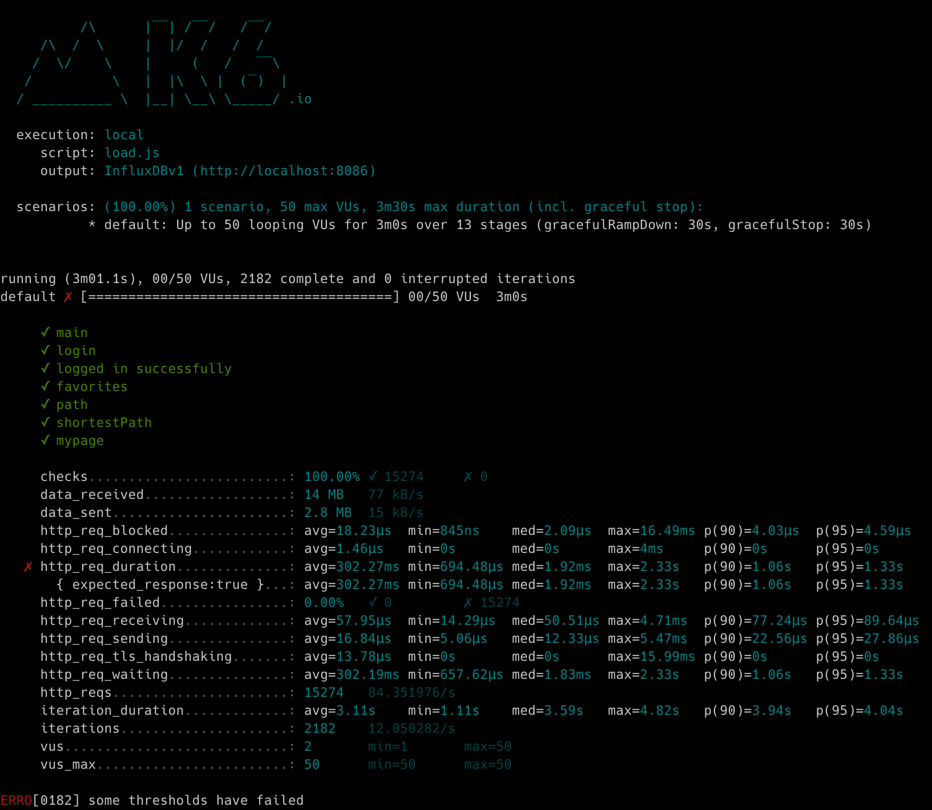
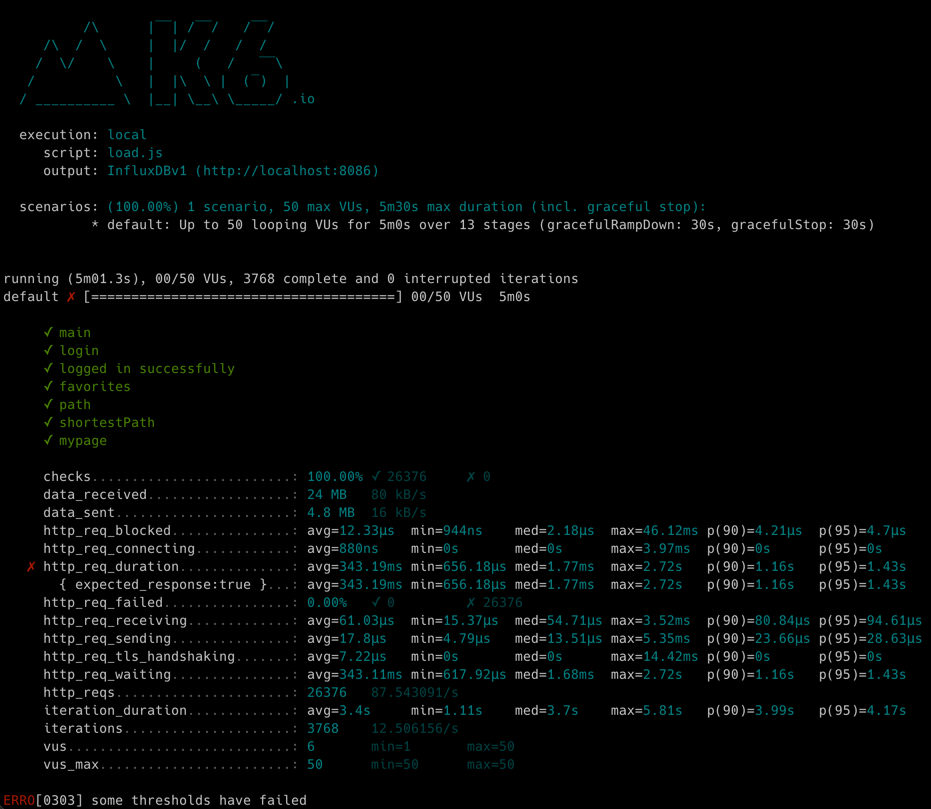
refactor: load 테스트 수정

diff --git a/k6/load.js b/k6/load.js
@@ -8,9 +8,9 @@ export let options = {
 		{duration: '10s', target: 20},
 		{duration: '20s', target: 35},
 		{duration: '20s', target: 50},
-		{duration: '20s', target: 50},
-		{duration: '20s', target: 50},
-		{duration: '20s', target: 50},
+		{duration: '60s', target: 50},
+		{duration: '60s', target: 50},
+		{duration: '60s', target: 50},
 		{duration: '20s', target: 50},
 		{duration: '10s', target: 40},
 		{duration: '10s', target: 30},

diff --git a/README.md b/README.md
@@ -19,24 +19,31 @@
 ## 🚀 Getting Started
 
 ### Install
+
 #### npm 설치
+
 ```
 cd frontend
 npm install
 ```
+
 > `frontend` 디렉토리에서 수행해야 합니다.
 
 ### Usage
+
 #### webpack server 구동
+
 ```
 npm run dev
 ```
+
 #### application 구동
+
 ```
 ./gradlew clean build
 ```
-<br>
 
+<br>
 
 ### 1단계 - 웹 성능 테스트
 
@@ -52,6 +59,7 @@ npm run dev
 | CLS | 0.004 | 표시 영역 안에 보이는 요소의 이동을 측정    |
 
 #### 경쟁사 1(네이버 지도 - https://map.naver.com/) 데스크톱
+
 | 지표  | 수치 | 설명  |
 |-----|---|-----|
 | FCP | 0.8s |     |
@@ -62,6 +70,7 @@ npm run dev
 | CLS | 0 |     |
 
 #### 경쟁사 2(카카오맵 - https://map.kakao.com/) 데스크톱
+
 | 지표  | 수치    | 설명  |
 |-----|-------|-----|
 | FCP | 0.6s  |     |
@@ -71,59 +80,62 @@ npm run dev
 | LCP | 0.6s  |     |
 | CLS | 0.018 |     |
 
-
 1. 웹 성능예산은 어느정도가 적당하다고 생각하시나요
+
 - 지하철 정보 컨텐츠를 제공하는 서비스다 보니, 컨텐츠를 빠르게 노출하고(FCP) 바로 사용할 수 있도록(TTI) 하는 지표가 경쟁사 보다 강화되어야 사용률을 높일 수 있을 것으로 보입니다.
-     - FCP 1s 이내
-     - TTI 2s 이내
+    - FCP 1s 이내
+    - TTI 2s 이내
 
 2. 웹 성능예산을 바탕으로 현재 지하철 노선도 서비스는 어떤 부분을 개선하면 좋을까요
-- 텍스트 기반 리소스를 압축(gzip, deflate, brotli)하여 제공. 네트워크 전송비용을 절감하여 전체적인 TTI, FCP를 개선할 수 있다.  
-  - /js/vendors.js : 2,125.0 KiB (예상 절감 효과 - 1,716.5 KiB)
-  - /js/main.js(chj1768.p-e.kr) : 172.0 KiB (예상 절감 효과 - 143.6 KiB)
-- 메인 페이지에서 사용하지 않는 스크립트나 리소스 Lazy loading 처리 
+
+- 텍스트 기반 리소스를 압축(gzip, deflate, brotli)하여 제공. 네트워크 전송비용을 절감하여 전체적인 TTI, FCP를 개선할 수 있다.
+    - /js/vendors.js : 2,125.0 KiB (예상 절감 효과 - 1,716.5 KiB)
+    - /js/main.js(chj1768.p-e.kr) : 172.0 KiB (예상 절감 효과 - 143.6 KiB)
+- 메인 페이지에서 사용하지 않는 스크립트나 리소스 Lazy loading 처리
 
 ---
 
-### 2단계 - 부하 테스트 
+### 2단계 - 부하 테스트
+
 1. 부하테스트 전제조건은 어느정도로 설정하셨나요
 
 - 대상 시스템 범위: `사설 dns -> aws vpc -> ec2 webServer(nginx) -> ec2 was(embedded tomcat) -> ec2 db(docker)`
-  - db 리소스 상태
-  ![db.png](db.png)
-  
+    - db 리소스 상태
+      ![db.png](db.png)
+
 - 목푯값 설정 (latency, throughput, 부하 유지기간)
-    > Throughput : 1일 평균 rps ~ 1일 최대 rps <br/>
-    언론 보도된 경쟁사 앱 DAU: 100~130만 <br/>
-    1일 사용자 수(DAU) x 1명당 1일 평균 접속 수(5회로 가정) = 6500000 <br/> 
-    1일 총 접속 수 / 86,400 (초/일) = 평균 RPS 75 <br/>
-    1일 평균 rps x (최대 트래픽 / 평소 트래픽) = 최대 RPS 112
-   
-    > T = (R * http_req_duration) (+ 1s) <br/>
-    (4 * 0.2) + 1 = 1.8 <br/>
-    VUser = 33 ~ 50
+  > Throughput : 1일 평균 rps ~ 1일 최대 rps <br/>
+  언론 보도된 경쟁사 앱 DAU: 100~130만 <br/>
+  1일 사용자 수(DAU) x 1명당 1일 평균 접속 수(5회로 가정) = 6500000 <br/>
+  1일 총 접속 수 / 86,400 (초/일) = 평균 RPS 75 <br/>
+  1일 평균 rps x (최대 트래픽 / 평소 트래픽) = 최대 RPS 112
+
+  > T = (R * http_req_duration) (+ 1s) <br/>
+  (4 * 0.2) + 1 = 1.8 <br/>
+  VUser = 33 ~ 50
 
 - 부하 테스트 시 저장될 데이터 건수 및 크기
-  - 새로 저장될 데이터는 없다. 이미 저장된 데이터(DB)에 대한 서비스 조회 성능을 확인해 본다.
+    - 새로 저장될 데이터는 없다. 이미 저장된 데이터(DB)에 대한 서비스 조회 성능을 확인해 본다.
 
 
 2. Smoke, Load, Stress 테스트 스크립트와 결과를 공유해주세요
+
 - smoke
-![smoke_k6.png](k6/smoke_k6.png)
-![smoke_grafana.png](k6/smoke_grafana.png)
+  ![smoke_k6.png](k6/smoke_k6.png)
+  ![smoke_grafana.png](k6/smoke_grafana.png)
 - load
-![load_k6.png](k6/load_k6.png)
-![load_grafana.png](k6/load_grafana.png)
+  ![load_k6.png](k6/load_k6.png)
+  ![load_grafana.png](k6/load_grafana.png)
 - stress
-![stress_k6.png](k6/stress_k6.png)
-![stress_grafana.png](k6/stress_grafana.png)
+  ![stress_k6.png](k6/stress_k6.png)
+  ![stress_grafana.png](k6/stress_grafana.png)
 
 ---
 
 ### 3단계 - 로깅, 모니터링
-1. 각 서버내 로깅 경로를 알려주세요
-웹서버 로그 - `/var/log/nginx`
-application 로그 - `~/nextstep/infra-subway-monitoring/log`
+
+1. 각 서버내 로깅 경로를 알려주세요 웹서버 로그 - `/var/log/nginx`
+   application 로그 - `~/nextstep/infra-subway-monitoring/log`
 2. Cloudwatch 대시보드 URL을 알려주세요
-`https://ap-northeast-2.console.aws.amazon.com/cloudwatch/home?region=ap-northeast-2#dashboards:name=chj1768-dashboard
-`
+   `https://ap-northeast-2.console.aws.amazon.com/cloudwatch/home?region=ap-northeast-2#dashboards:name=chj1768-dashboard
+   `
